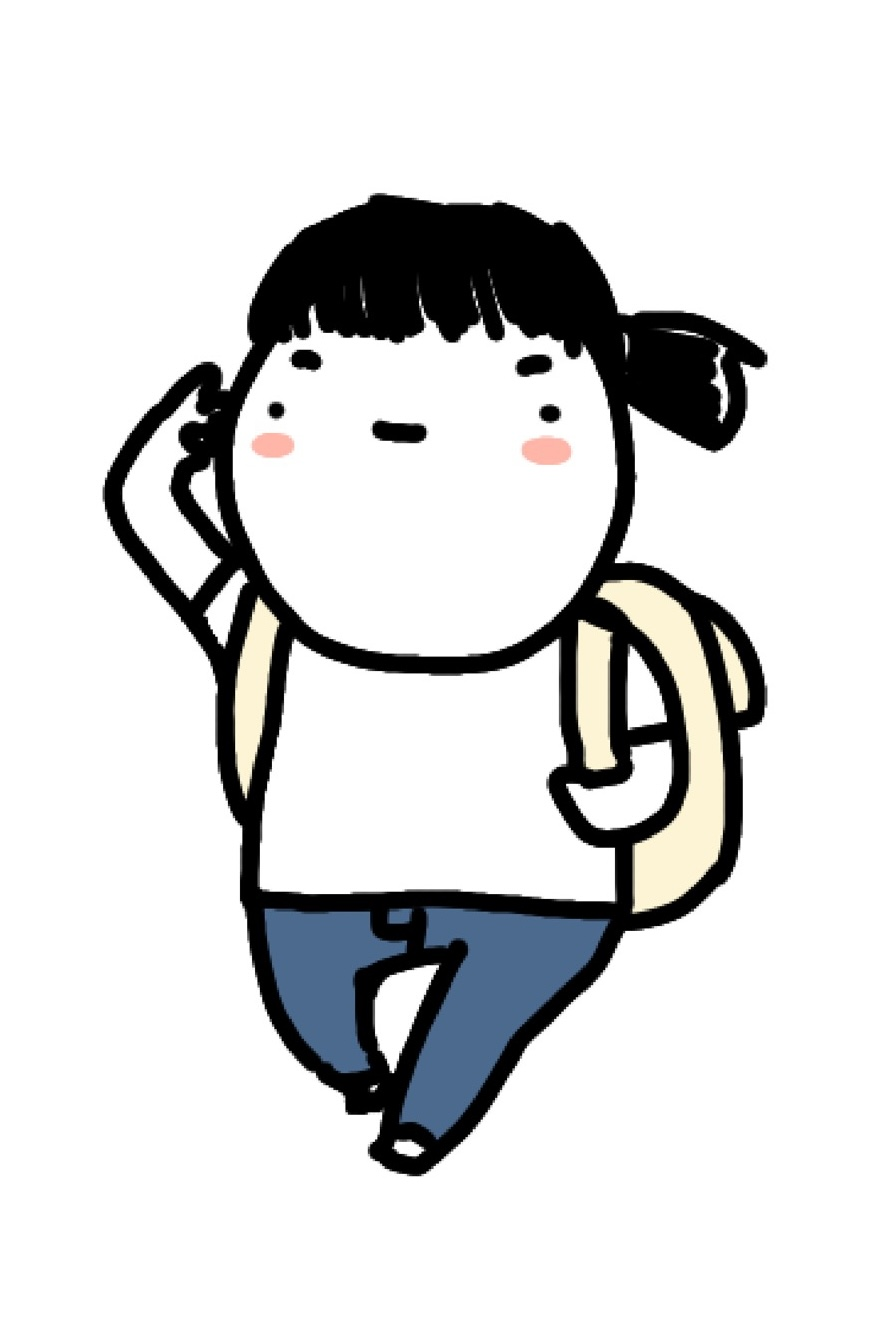
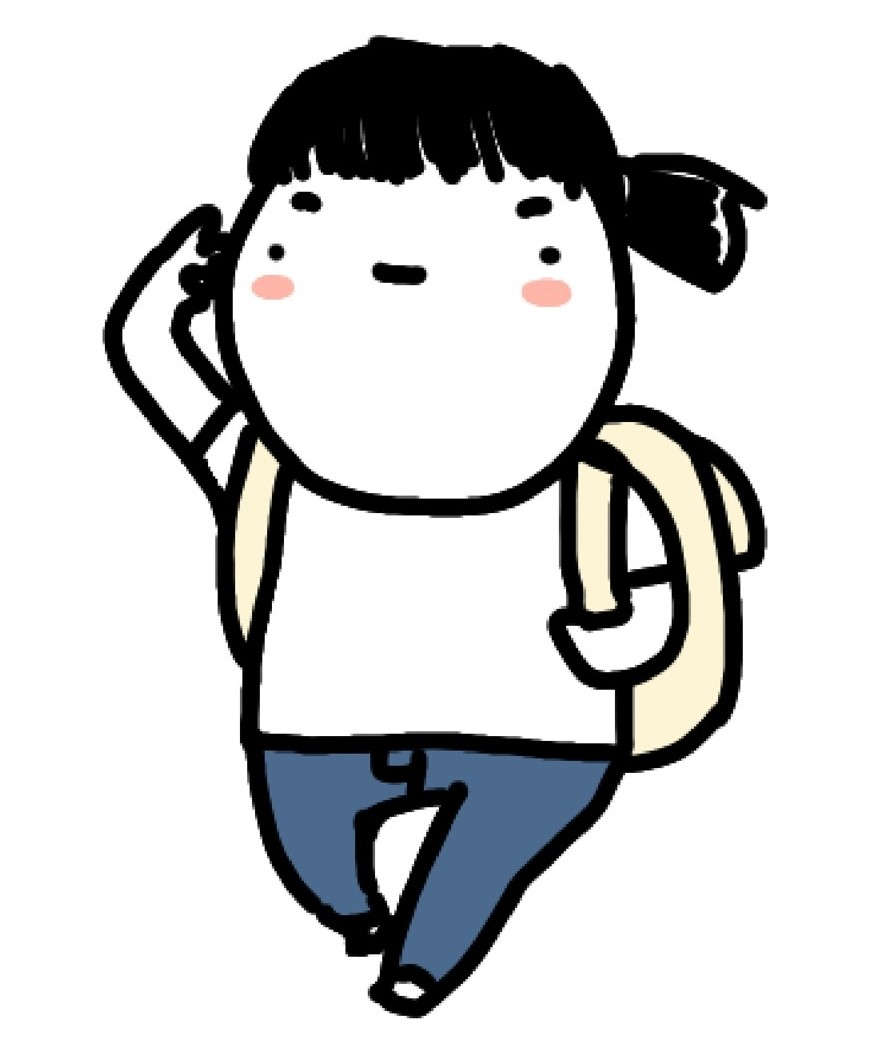
Resize main image
:Detailed Notes:
1) Resize main image for interactive page

Changed region(s): [[0.0909, 0.0307, 0.8788, 0.9827], [0.3939, 0.3071, 0.4848, 0.3378]]

diff --git a/src/styles/page.scss b/src/styles/page.scss
@@ -5,6 +5,13 @@
     margin-bottom: 300px;
     height: 100%;
 
+    .imgContainer {
+        position: relative;
+        height: 500px;
+        width: 100%;
+        max-width: 400px;
+    }
+
     .firstPparagraph {
         height: auto;
     }
@@ -108,6 +115,12 @@
     .homeContainer {
         display: flex;
         flex-direction: column;
+
+        .imgContainer {
+            position: relative;
+            height: 200px;
+            width: 250px;
+        }
     
         .firstPparagraph {
             padding: 5px 15px;

diff --git a/src/app/page.tsx b/src/app/page.tsx
@@ -6,7 +6,9 @@ import '../styles/page.scss';
 export default function Home() {
   return (
     <div className="homeContainer">
-      <Image src={profileImgFirst} alt="profileImg" height={500} />
+      <div className="imgContainer">
+        <Image src={profileImgFirst} alt="profileImg" fill objectFit="contain" />
+      </div>
       <div className="firstPparagraph">
         <h2>안녕하세요.</h2>
         <h1>프론트엔드 개발자 배하입니다.</h1>
